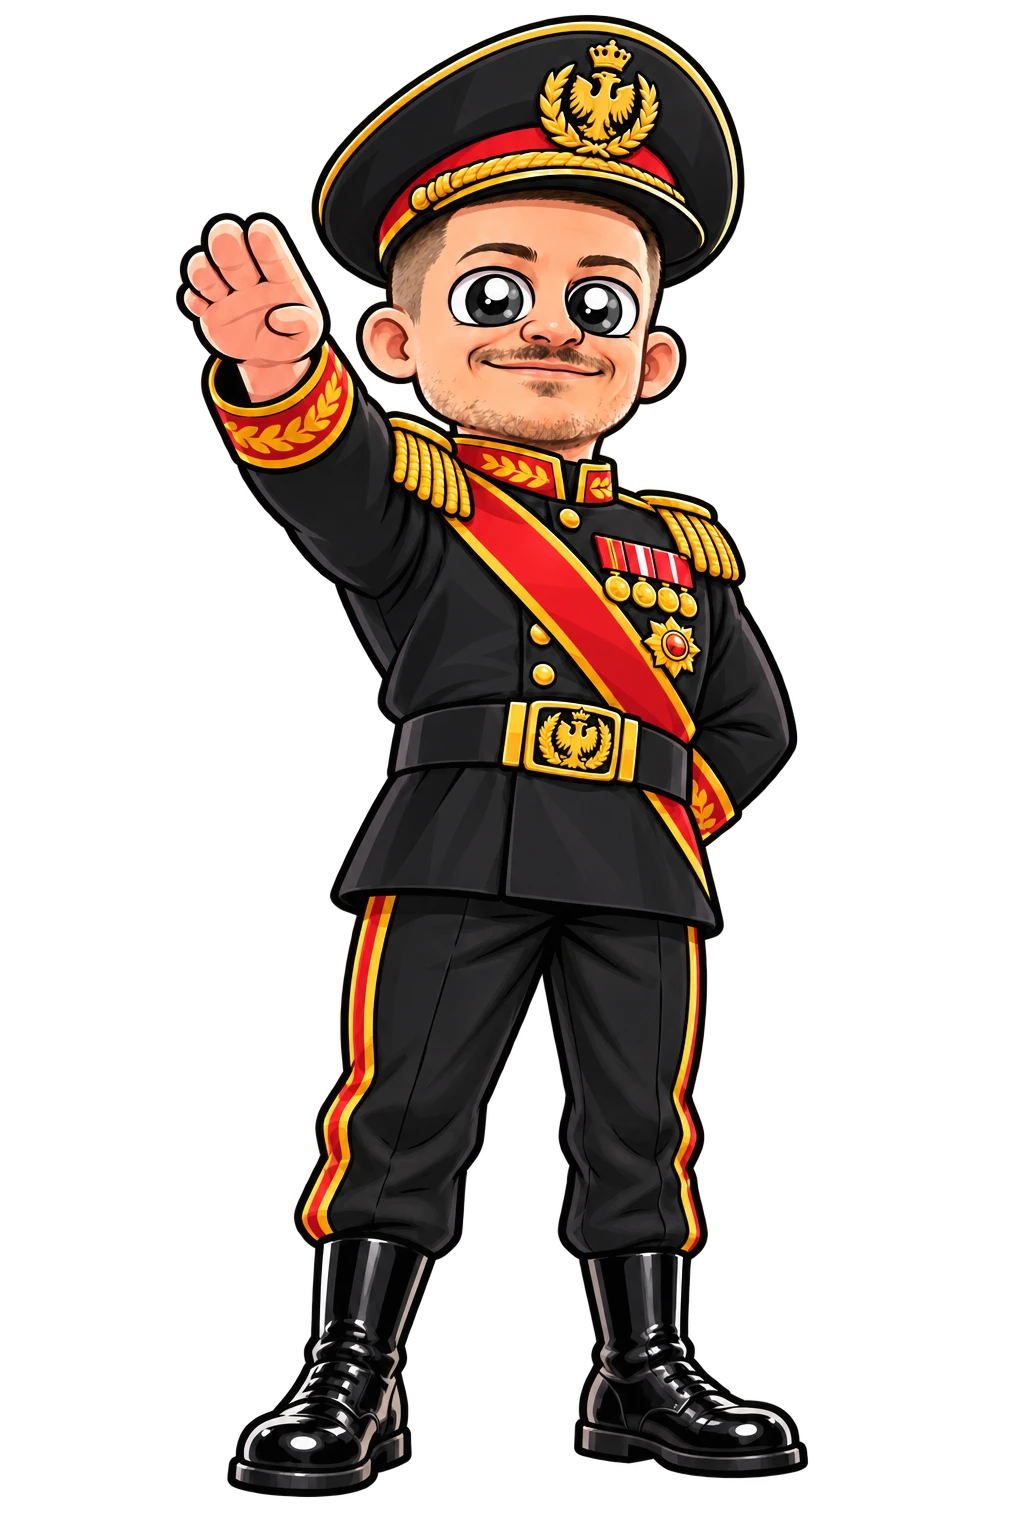
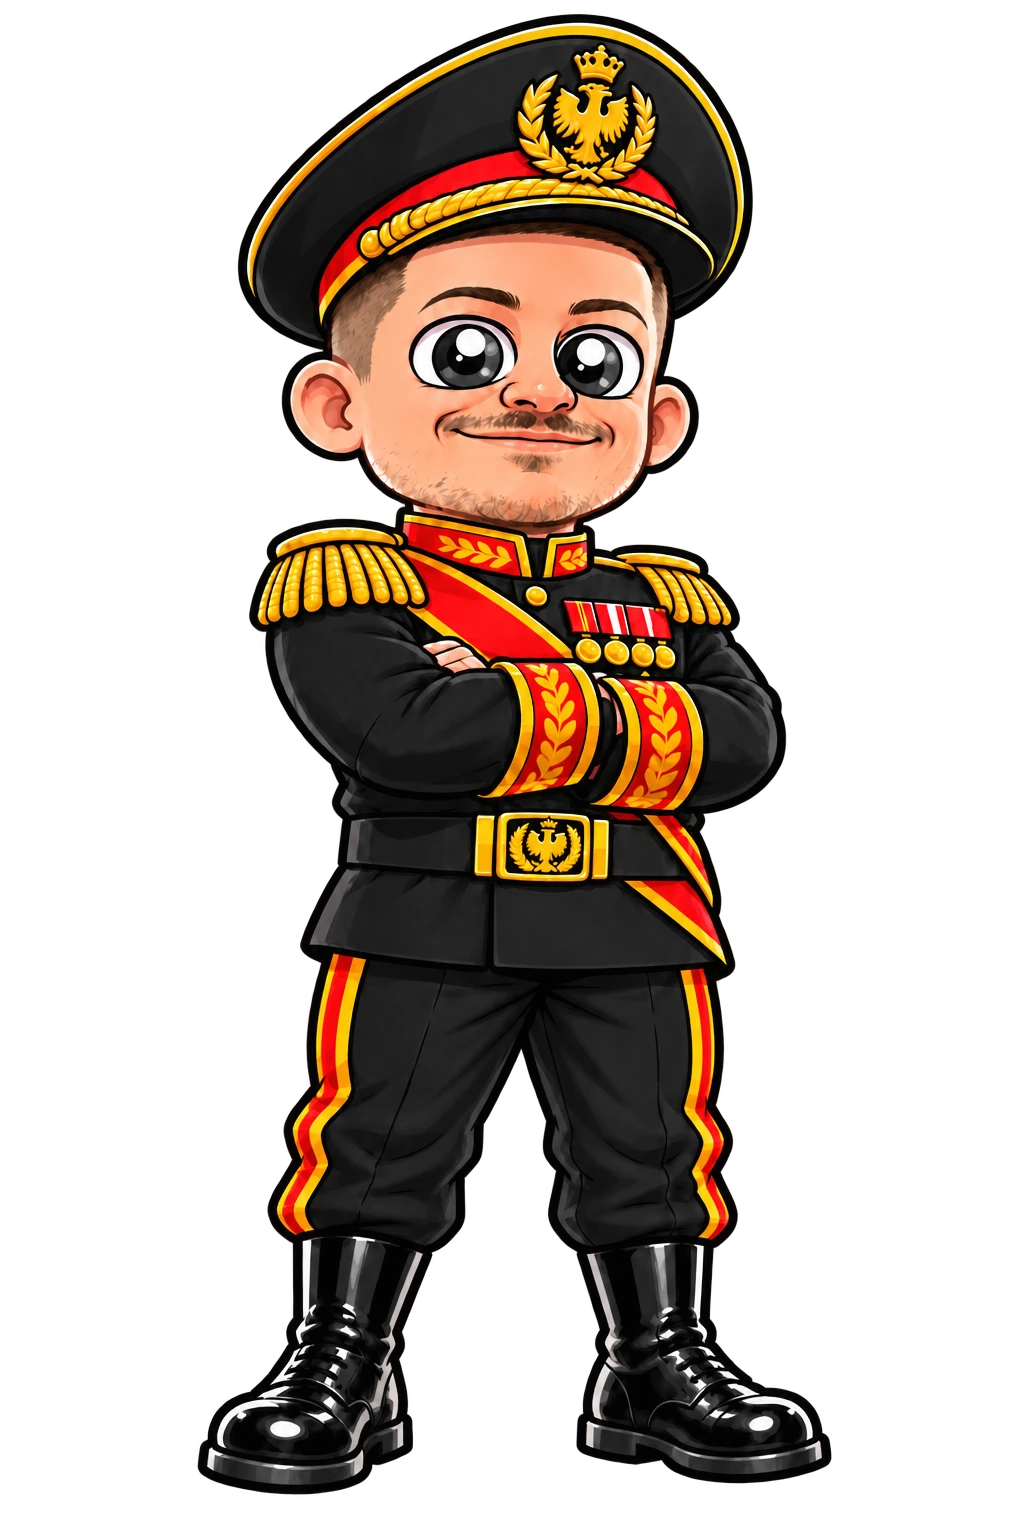
Duelo: nueva versión de Majarias y personajes otra vez dentro de su rodillo
- Majarias con los brazos cruzados, misma postura y proporciones que el resto.
- El personaje desplegado vuelve a recortarse dentro de su rodillo (sin
  salirse); se mantiene el ancho de 118 px de los rodillos.

Claude-Session: https://claude.ai/code/session_017zXaEYh4HBLgfUEpbe8uvh

Changed region(s): [[0.1562, 0.0, 0.8125, 1.0]]

diff --git a/src/games/duelo/view.ts b/src/games/duelo/view.ts
@@ -7,8 +7,7 @@ import { CELL } from '../../shared/view/CodeSymbolVisual';
 
 /** Rodillos de Duelo un 18% más anchos que altos, para que quepan los personajes desplegados. */
 export const CELL_W = 118;
-/** Lo que puede salirse el personaje desplegado por cada lado de su rodillo. */
-const OVERFLOW = 50;
+
 import { bodyTexture } from './art';
 import { LINES, REEL_CHAR, type WildReel } from './math';
 import { GOLD, INK, REEL_A, REEL_B, STICKER, YELLOW } from './palette';
@@ -18,7 +17,7 @@ export class WildReelView extends Container {
   private frame = new Graphics();
   private clip = new Graphics();
   private content = new Container();
-  /** El cuerpo va aparte, con una máscara más ancha que el rodillo: puede salirse un poco por los lados. */
+  /** El cuerpo va aparte de los rótulos; los dos se recortan al rodillo. */
   private figure = new Container();
   private figClip = new Graphics();
   private labels = new Container();
@@ -82,7 +81,7 @@ export class WildReelView extends Container {
     this.clip.clear();
     this.clip.roundRect(10, this.top + 10, CELL_W - 20, h - 20, 9).fill(0xffffff);
     this.figClip.clear();
-    this.figClip.rect(-OVERFLOW, this.top + 10, CELL_W + OVERFLOW * 2, h - 20).fill(0xffffff);
+    this.figClip.roundRect(10, this.top + 10, CELL_W - 20, h - 20, 9).fill(0xffffff);
     this.labelClip.clear();
     this.labelClip.roundRect(10, this.top + 10, CELL_W - 20, h - 20, 9).fill(0xffffff);
   }
